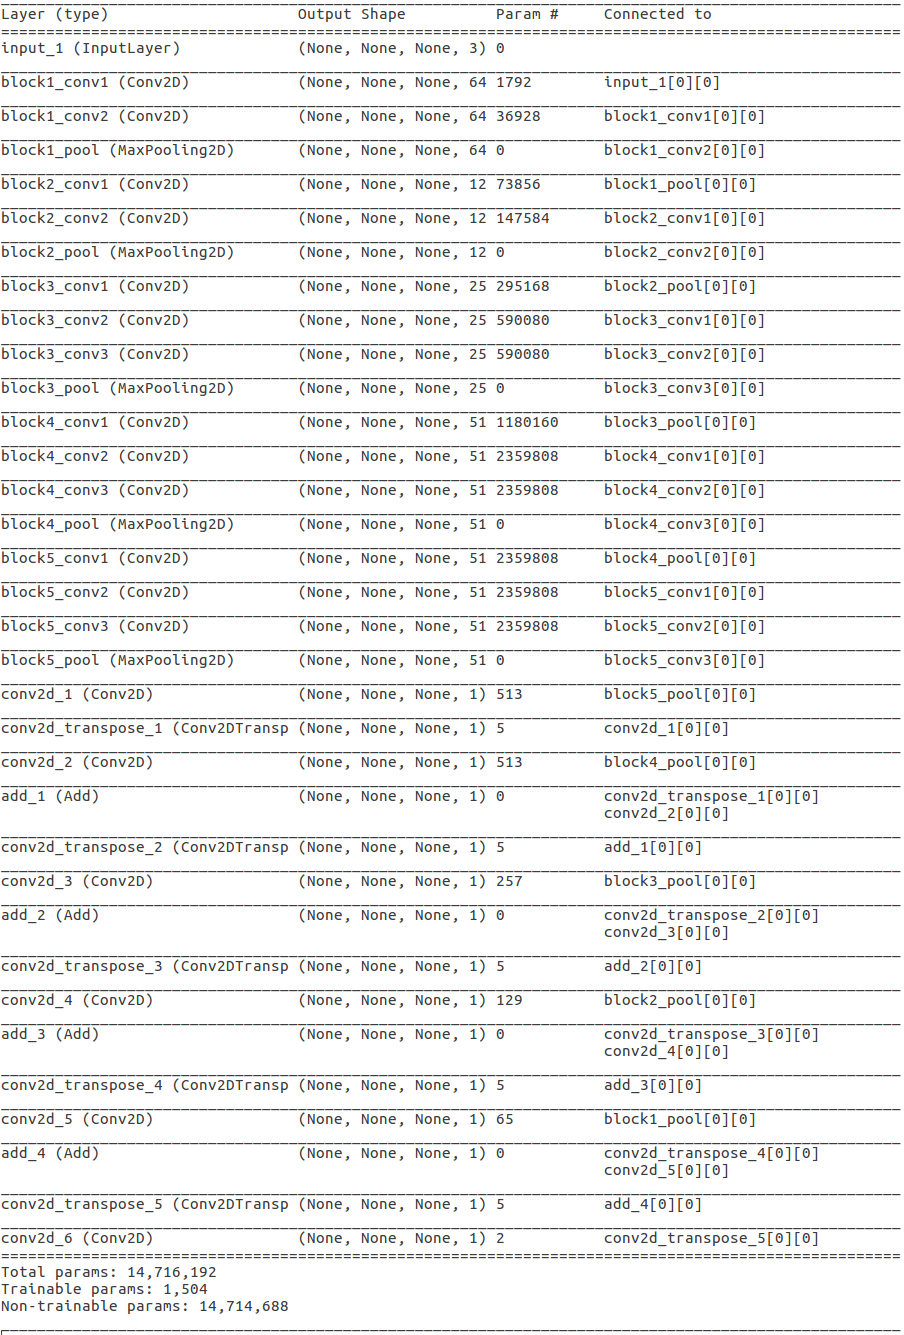
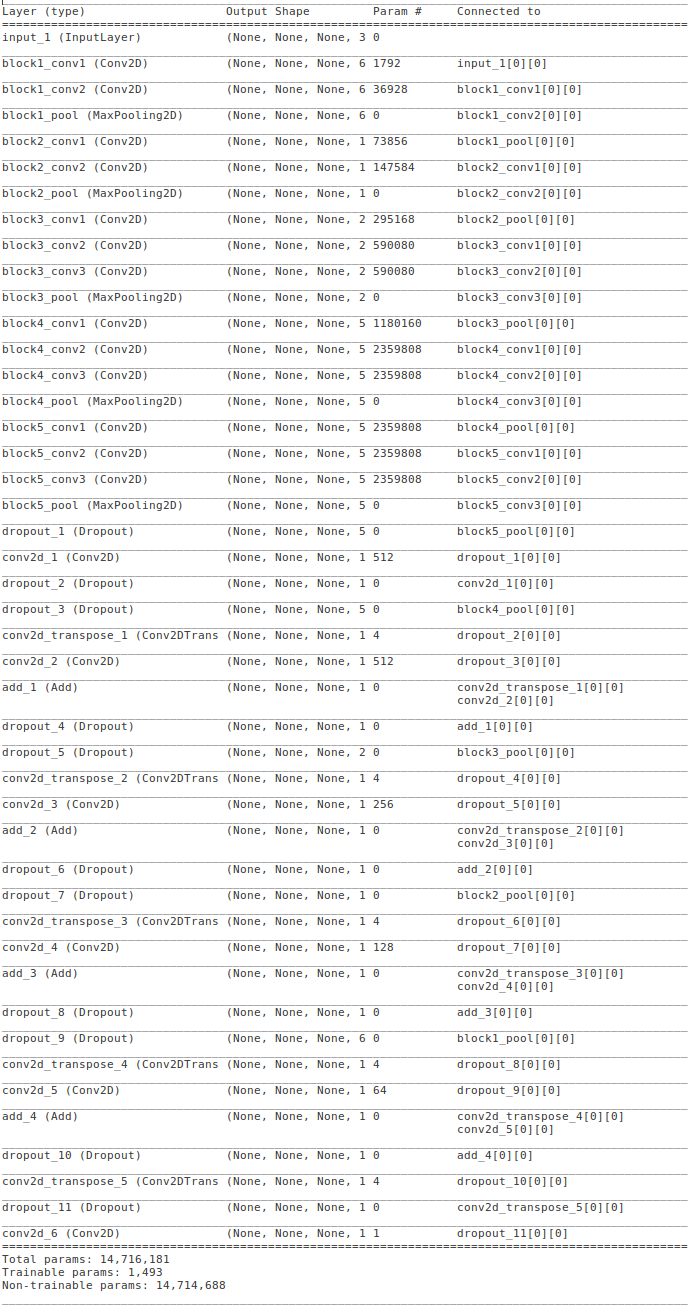
Not using bias, new summary image

Changed region(s): [[0.0, 0.0, 0.9928, 0.9992]]

diff --git a/src/model.py b/src/model.py
@@ -26,7 +26,8 @@ class Model(object):
             filters     = 1, 
             kernel_size = (1,1), 
             activation  = 'relu',
-            padding     = 'same'
+            padding     = 'same',
+            use_bias    = False
         )(d5)
         d5 = Dropout(DROPOUT_VALUE)(c5)
         t5 = Conv2DTranspose(
@@ -34,7 +35,8 @@ class Model(object):
             kernel_size = (2,2), 
             strides     = (2,2), 
             activation  = 'relu',
-            padding     = 'same'
+            padding     = 'same',
+            use_bias    = False
         )(d5)
 
         v4 = vgg16.get_layer('block4_pool')
@@ -43,7 +45,8 @@ class Model(object):
             filters     = 1 ,
             kernel_size = (1,1), 
             activation  = 'relu',
-            padding     = 'same'
+            padding     = 'same',
+            use_bias    = False
         )(d4)
         a4 = Add()([t5, c4])
         d4 = Dropout(DROPOUT_VALUE)(a4)
@@ -52,7 +55,8 @@ class Model(object):
             kernel_size = (2,2), 
             strides     = (2,2), 
             activation  = 'relu',
-            padding     = 'same'
+            padding     = 'same',
+            use_bias    = False
         )(d4)
 
         v3 = vgg16.get_layer('block3_pool')
@@ -61,7 +65,8 @@ class Model(object):
             filters     = 1, 
             kernel_size = (1,1), 
             activation  = 'relu',
-            padding     = 'same'
+            padding     = 'same',
+            use_bias    = False
         )(d3)
         a3 = Add()([t4, c3])
         d3 = Dropout(DROPOUT_VALUE)(a3)
@@ -70,7 +75,8 @@ class Model(object):
             kernel_size = (2,2), 
             strides     = (2,2), 
             activation  = 'relu',
-            padding     = 'same'
+            padding     = 'same',
+            use_bias    = False
         )(d3)
 
         v2 = vgg16.get_layer('block2_pool')
@@ -79,7 +85,8 @@ class Model(object):
             filters     = 1, 
             kernel_size = (1,1), 
             activation  = 'relu',
-            padding     = 'same'
+            padding     = 'same',
+            use_bias    = False
         )(d2)
         a2 = Add()([t3, c2])
         d2 = Dropout(DROPOUT_VALUE)(a2)
@@ -88,7 +95,8 @@ class Model(object):
             kernel_size = (2,2), 
             strides     = (2,2), 
             activation  = 'relu',
-            padding     = 'same'
+            padding     = 'same',
+            use_bias    = False
         )(d2)
 
         v1 = vgg16.get_layer('block1_pool')
@@ -97,7 +105,8 @@ class Model(object):
             filters     = 1, 
             kernel_size = (1,1), 
             activation  = 'relu',
-            padding     = 'same'
+            padding     = 'same',
+            use_bias    = False
         )(d1)
         a1 = Add()([t2, c1])
         d1 = Dropout(DROPOUT_VALUE)(a1)
@@ -106,7 +115,8 @@ class Model(object):
             kernel_size = (2,2), 
             strides     = (2,2), 
             activation  = 'relu',
-            padding     = 'same'
+            padding     = 'same',
+            use_bias    = False
         )(d1)
 
         d0 = Dropout(DROPOUT_VALUE)(t1)
@@ -114,7 +124,8 @@ class Model(object):
             filters     = 1, 
             kernel_size = (1,1), 
             padding     = 'same',
-            activation  = 'tanh'
+            activation  = 'tanh',
+            use_bias    = False
         )(d0)
 
         model = KerasModel(
